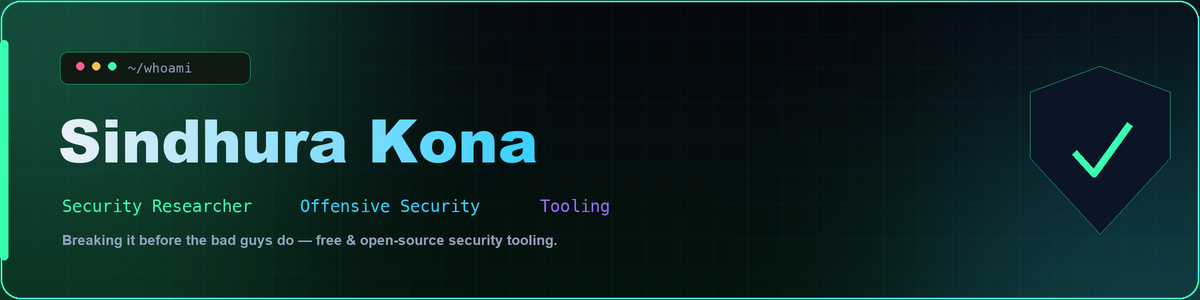
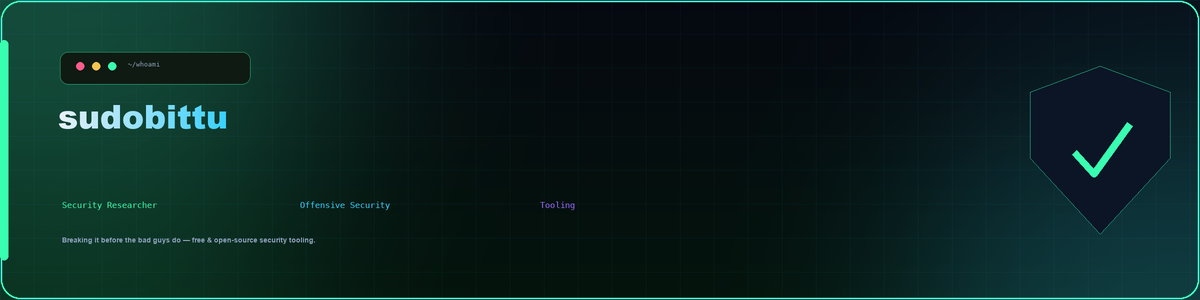
Use handle 'sudobittu' instead of real name across profile

diff --git a/README.md b/README.md
@@ -1,6 +1,6 @@
 <!-- ===================== HERO ===================== -->
 <p align="center">
-  <img src="./assets/banner.gif" width="100%" alt="Sindhura Kona — Security Researcher" />
+  <img src="./assets/banner.gif" width="100%" alt="sudobittu — Security Researcher" />
 </p>
 
 <p align="center">
@@ -18,7 +18,7 @@
 ### `$ whoami`
 
 ```bash
-Sindhura Kona — Independent Security Researcher
+sudobittu — Independent Security Researcher
 
 focus       : penetration testing · red teaming · QR/mobile phishing research
 building    : curated, always-current, free & open-source security tooling
